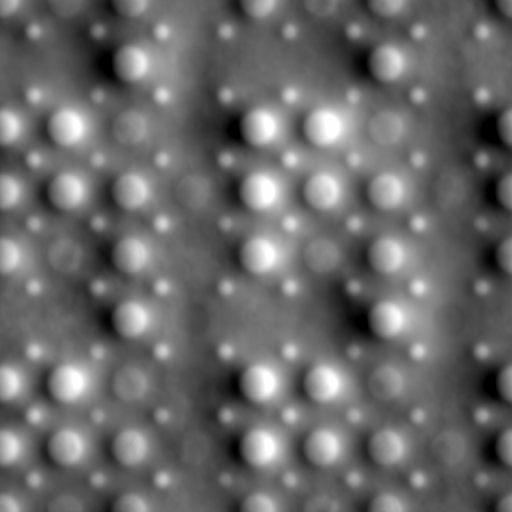
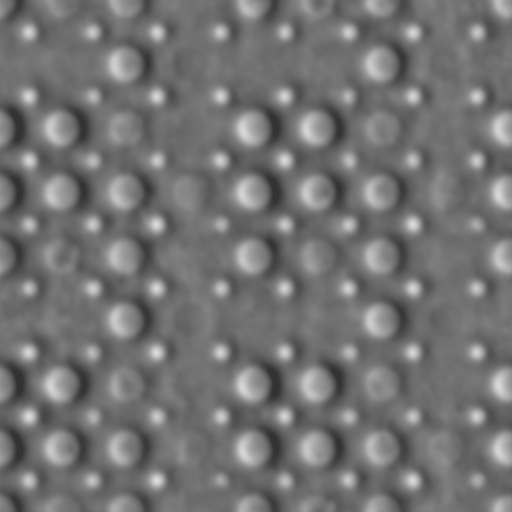
rewrite texture_unit_t

diff --git a/normal_map_demo/normal_map_demo.cpp b/normal_map_demo/normal_map_demo.cpp
@@ -26,7 +26,6 @@
 #include "texture.hpp"
 #include "trackball.hpp"
 
-
 struct image_t {
 	GLenum format;
 	size_t width;
@@ -67,10 +66,6 @@ texture_t normal_texture;
 texture_t height_texture;
 texture_t color_texture;
 texture_t depth_texture;
-texture_unit_t texture_unit_0 = { GL_TEXTURE0, 0, &color_texture };
-texture_unit_t texture_unit_1 = { GL_TEXTURE1, 1, &image_texture };
-texture_unit_t texture_unit_2 = { GL_TEXTURE2, 2, &normal_texture };
-texture_unit_t texture_unit_3 = { GL_TEXTURE3, 3, &height_texture };
 
 trackball_t trackball(200.0f);
 
@@ -277,24 +272,33 @@ void camera_setup() {
 void shader_setup() {		
 	light_position = glm::vec4(10.0f, 10.0f, 0.0f, 1.0f); // in world space
 	
-	parallax_scale_bias.r = 0.02f;
-	parallax_scale_bias.g = 0.01f;
+	parallax_scale_bias.r = 0.04f;
+	parallax_scale_bias.g = 0.02f;
 	
 	shader_program_t::build(normal_map_shader, "assets/shader/normal_map.vs", "assets/shader/normal_map.fs");	
 	normal_map_shader.bind();
 	normal_map_shader.set_uniform_value("texcoord_scale", 1.0f);
+	normal_map_shader.set_uniform_value("texture1", 1);
+	normal_map_shader.set_uniform_value("texture2", 2);
+	normal_map_shader.set_uniform_value("texture3", 3);
 	normal_map_shader.set_uniform_value("specular_color", glm::vec3(0.3f));
 	normal_map_shader.set_uniform_value("specular_power", 100.0f);
 	normal_map_shader.release();
 }
 
-void texture_setup() {
+void texture_setup() {	
 	build_image_texutre(image_texture, "assets/image/polkadots.png");
 	build_image_texutre(normal_texture, "assets/image/polkadots_normal.png");
 	build_image_texutre(height_texture, "assets/image/polkadots_height.png");
 	
 	build_color_texture(color_texture, viewport.x, viewport.y);
 	build_depth_texture(depth_texture, viewport.x, viewport.y);
+	
+	texture_unit_t::initialize();
+	texture_unit_t::attach(0, &color_texture);
+	texture_unit_t::attach(1, &image_texture);
+	texture_unit_t::attach(2, &normal_texture);
+	texture_unit_t::attach(3, &height_texture);
 }
 
 void frame_buffer_setup() {
@@ -349,31 +353,28 @@ void update() {
 }
 
 void render() {
+	for (size_t i = 0; i < texture_unit_t::collection.size(); i++) {
+		texture_unit_t::collection[i].activate();
+	}
+	
 	glViewport(0, 0, viewport.x, viewport.y);
 	glClearColor(1.0f, 1.0f, 1.0f, 1.0f);
 	glClear(GL_COLOR_BUFFER_BIT | GL_DEPTH_BUFFER_BIT);	
 
-	glActiveTexture(texture_unit_1.unit_id);
-	glBindTexture(texture_unit_1.texture->target, texture_unit_1.texture->handle);
-	glActiveTexture(texture_unit_2.unit_id);
-	glBindTexture(texture_unit_2.texture->target, texture_unit_2.texture->handle);
-	glActiveTexture(texture_unit_3.unit_id);
-	glBindTexture(texture_unit_3.texture->target, texture_unit_3.texture->handle);
 	normal_map_shader.bind();
 	if (parallax_mapping_enabled)
 		normal_map_shader.set_uniform_value("scale_bias", parallax_scale_bias);
 	else
 		normal_map_shader.set_uniform_value("scale_bias", glm::vec2(0.0f));
-	normal_map_shader.set_uniform_value("texture1", texture_unit_1.index);
-	normal_map_shader.set_uniform_value("texture2", texture_unit_2.index);
-	normal_map_shader.set_uniform_value("texture3", texture_unit_3.index);
 	normal_map_shader.set_uniform_value("light_position", camera.view_inverse_matrix * light_position);
 	render_model(board, camera, normal_map_shader);
 	normal_map_shader.release();
-	glBindTexture(texture_unit_0.texture->target, 0);
-	glActiveTexture(0);
 
 	// debug_draw_texture(color_texture.handle);
+
+	for (size_t i = 0; i < texture_unit_t::collection.size(); i++) {
+		texture_unit_t::collection[i].deactivate();
+	}
 
 }
 

diff --git a/normal_map_demo/fbo.cpp b/normal_map_demo/fbo.cpp
@@ -23,7 +23,7 @@ void frame_buffer_t::release() {
 	glBindFramebufferEXT(GL_FRAMEBUFFER_EXT, 0);
 }
 
-#define CASE_FBO_STATUS_ERROR(fbo_status)  case fbo_status: cerr << "glCheckFramebufferStatus failed: " << #fbo_status << endl; break;
+#define WHEN_FBO_STATUS(fbo_status)  case fbo_status: cerr << "glCheckFramebufferStatus failed: " << #fbo_status << endl; break;
 
 bool frame_buffer_t::is_valid() const {
 	GLenum fbo_status = glCheckFramebufferStatus(GL_FRAMEBUFFER_EXT);	
@@ -31,13 +31,13 @@ bool frame_buffer_t::is_valid() const {
 		return true;
 	
 	switch (fbo_status) {
-		CASE_FBO_STATUS_ERROR(GL_FRAMEBUFFER_UNDEFINED);
-		CASE_FBO_STATUS_ERROR(GL_FRAMEBUFFER_INCOMPLETE_ATTACHMENT);
-		CASE_FBO_STATUS_ERROR(GL_FRAMEBUFFER_INCOMPLETE_MISSING_ATTACHMENT);
-		CASE_FBO_STATUS_ERROR(GL_FRAMEBUFFER_INCOMPLETE_DRAW_BUFFER);
-		CASE_FBO_STATUS_ERROR(GL_FRAMEBUFFER_INCOMPLETE_READ_BUFFER);
-		CASE_FBO_STATUS_ERROR(GL_FRAMEBUFFER_UNSUPPORTED);
-		CASE_FBO_STATUS_ERROR(GL_FRAMEBUFFER_INCOMPLETE_MULTISAMPLE);
+		WHEN_FBO_STATUS(GL_FRAMEBUFFER_UNDEFINED);
+		WHEN_FBO_STATUS(GL_FRAMEBUFFER_INCOMPLETE_ATTACHMENT);
+		WHEN_FBO_STATUS(GL_FRAMEBUFFER_INCOMPLETE_MISSING_ATTACHMENT);
+		WHEN_FBO_STATUS(GL_FRAMEBUFFER_INCOMPLETE_DRAW_BUFFER);
+		WHEN_FBO_STATUS(GL_FRAMEBUFFER_INCOMPLETE_READ_BUFFER);
+		WHEN_FBO_STATUS(GL_FRAMEBUFFER_UNSUPPORTED);
+		WHEN_FBO_STATUS(GL_FRAMEBUFFER_INCOMPLETE_MULTISAMPLE);
 		default:
 			assert(false);
 	}

diff --git a/normal_map_demo/texture.hpp b/normal_map_demo/texture.hpp
@@ -1,6 +1,7 @@
 #ifndef TEXTURE_HPP
 #define TEXTURE_HPP
 
+#include <vector>
 #include <OpenGL/gl.h>
 
 struct texture_t {
@@ -9,9 +10,37 @@ struct texture_t {
 };
 
 struct texture_unit_t {
+
 	GLenum unit_id;
-	int index;
-	texture_t *texture;
+	const texture_t *texture;
+	
+	texture_unit_t() : unit_id(0), texture(NULL) { }
+	
+	int index() const {
+		return unit_id - GL_TEXTURE0;
+	}
+	
+	void activate() const {
+		if (texture != NULL) {
+			glActiveTexture(unit_id);
+			glBindTexture(texture->target, texture->handle);	
+		}
+	}
+	
+	void deactivate() const {
+		if (texture != NULL) {
+			glBindTexture(texture->target, 0);
+			glActiveTexture(0);
+		}
+	}
+	
+	static std::vector<texture_unit_t> collection;
+	
+	static void initialize();
+	
+	static void attach(int index, const texture_t *texture);
+	static void dettach(int index);
+	
 };
 
 #endif
